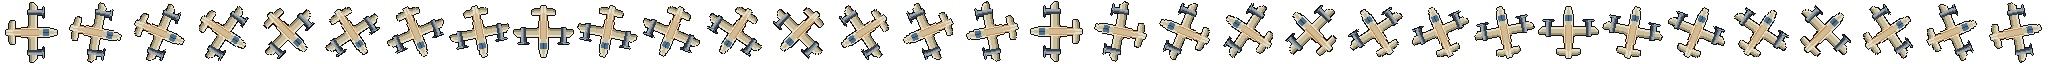
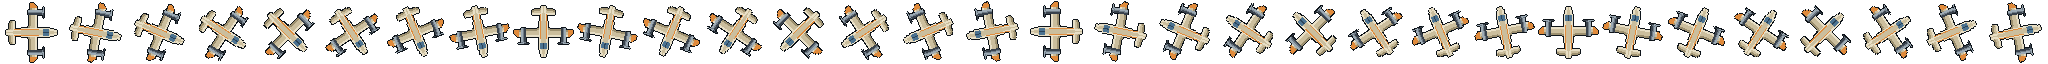
Checkpoint: PixelLab Trailhopper master with hull-clipped cutaway carve
Held from the previous session per the stop request; committed as a checkpoint
before the curated asset-pack integration begins. May be superseded by a hero
built from the new library's flight vocabulary.

diff --git a/tools/artgen/carve.py b/tools/artgen/carve.py
@@ -1,0 +1,118 @@
+"""Carves the cutaway cabin into an approved aircraft master.
+
+PixelLab provides the personality; this provides the interior the game needs:
+an open cabin band and hold with exact seat/cargo anchors, cut into the sprite
+deterministically. Coordinates are hand-picked per master from a grid overlay —
+they are part of the approved design, not guesswork.
+"""
+
+from __future__ import annotations
+
+import json
+import sys
+from pathlib import Path
+
+import numpy as np
+from PIL import Image
+
+sys.path.insert(0, str(Path(__file__).resolve().parent.parent))
+from pixelart.palette import rgb                                  # noqa: E402
+
+## Per-master carve plans. Slots are [x, y] top-left anchors.
+PLANS = {
+    "trailhopper_4": {
+        "source": ".art_candidates/trailhopper_master.png",
+        "cabin": {"x0": 36, "y0": 38, "x1": 93, "y1": 52},
+        "hold": {"x0": 40, "y0": 54, "x1": 77, "y1": 61},
+        "seat_slot": 8,
+        "seats": [[38, 41], [47, 41], [56, 41], [65, 41], [74, 41], [83, 41]],
+        "cargo_slot": 7,
+        "cargo": [[42, 54], [51, 54], [60, 54], [69, 54]],
+    },
+}
+
+
+def _shift(mask: np.ndarray, dy: int, dx: int) -> np.ndarray:
+    out = np.roll(np.roll(mask, dy, axis=0), dx, axis=1)
+    if dy > 0: out[:dy, :] = False
+    elif dy < 0: out[dy:, :] = False
+    if dx > 0: out[:, :dx] = False
+    elif dx < 0: out[:, dx:] = False
+    return out
+
+
+def _erode(mask: np.ndarray, steps: int = 1) -> np.ndarray:
+    out = mask
+    for _ in range(steps):
+        n = out.copy()
+        for dy, dx in ((-1, 0), (1, 0), (0, -1), (0, 1)):
+            n &= _shift(out, dy, dx)
+        out = n
+    return out
+
+
+def _dilate(mask: np.ndarray) -> np.ndarray:
+    out = mask.copy()
+    for dy, dx in ((-1, 0), (1, 0), (0, -1), (0, 1)):
+        out |= _shift(mask, dy, dx)
+    return out
+
+
+def _band(data: np.ndarray, hull: np.ndarray, x0: int, y0: int, x1: int, y1: int,
+          fill: str, floor: str) -> None:
+    """An open interior clipped to the airframe.
+
+    The band only replaces pixels inside the (slightly eroded) hull, so the
+    cutaway follows the fuselage curve instead of hanging off it as a pasted
+    rectangle — which was exactly the review panel's complaint.
+    """
+    rect = np.zeros(hull.shape, dtype=bool)
+    rect[y0:y1 + 1, x0:x1 + 1] = True
+    inside = rect & _erode(hull, 2)
+    data[inside, :3] = rgb(fill)
+    floor_rect = np.zeros_like(rect)
+    floor_rect[y1 - 1:y1 + 1, x0:x1 + 1] = True
+    data[floor_rect & inside, :3] = rgb(floor)
+    ceiling = np.zeros_like(rect)
+    ceiling[y0, x0:x1 + 1] = True
+    data[ceiling & inside, :3] = rgb("ice_light")
+    frame = _dilate(inside) & ~inside & hull
+    data[frame, :3] = rgb("outline")
+
+
+def carve(family: str, out_dir: Path) -> Path:
+    plan = PLANS[family]
+    image = Image.open(plan["source"]).convert("RGBA")
+    data = np.array(image)
+    hull = data[:, :, 3] > 128
+
+    cabin = plan["cabin"]
+    _band(data, hull, cabin["x0"], cabin["y0"], cabin["x1"], cabin["y1"], "white", "ice")
+    hold = plan["hold"]
+    _band(data, hull, hold["x0"], hold["y0"], hold["x1"], hold["y1"], "ice_light", "ice")
+
+    out = Image.fromarray(data, "RGBA")
+    target = out_dir / f"{family}_side.png"
+    target.parent.mkdir(parents=True, exist_ok=True)
+    out.save(target)
+
+    alpha = data[:, :, 3]
+    rows = np.where(alpha.max(axis=1) > 128)[0]
+    anchors = {
+        "canvas": [image.width, image.height],
+        "baseline": int(rows.max()) if rows.size else image.height - 1,
+        "seat_slot": plan["seat_slot"],
+        "cargo_slot": plan["cargo_slot"],
+        "seats": plan["seats"],
+        "cargo": plan["cargo"],
+        "carved": True,
+    }
+    (out_dir / f"{family}_side.json").write_text(json.dumps(anchors, indent=2) + "\n")
+    return target
+
+
+if __name__ == "__main__":
+    root = Path(__file__).resolve().parent.parent.parent
+    target = carve("trailhopper_4",
+                   root / "assets" / "art" / "production" / "aircraft" / "trailhopper_4")
+    print("carved ->", target.relative_to(root))

diff --git a/tools/pixelart/aircraft.py b/tools/pixelart/aircraft.py
@@ -167,6 +167,7 @@ def _top_wing(canvas: Canvas, spec: AircraftSpec, ctx: dict) -> None:
     chord = max(3, round(spec.wing_chord_m * ppm))
     leading = nose - round(spec.length_m * spec.wing_x_frac * ppm)
     tip_round = max(1, half_span // 8)
+    tip_band = max(2, half_span // 7)
     for dy in range(0, half_span + 1):
         t = dy / max(1, half_span)
         # Taper only, no sweep: at this sprite size a swept leading edge turns
@@ -181,7 +182,9 @@ def _top_wing(canvas: Canvas, spec: AircraftSpec, ctx: dict) -> None:
             tip_chord = max(1, tip_chord - inset)
         x_trail = x_lead - tip_chord
         for x in range(x_trail, x_lead + 1):
-            if x >= x_lead - 1:
+            if half_span - dy <= tip_band:
+                colour = livery["trim"]         # wingtip flash, from the master
+            elif x >= x_lead - 1:
                 colour = livery["light"]        # lit leading edge
             elif x <= x_trail + 1:
                 colour = livery["dark"]         # shadowed trailing edge
@@ -236,14 +239,16 @@ def _top_engines(canvas: Canvas, spec: AircraftSpec, ctx: dict) -> None:
                             _shade(dy, nacelle_half, "metal_light", "metal", "metal_dark"))
         _top_prop(canvas, front + 1, centre, prop_half)
     else:
-        cowl = max(2, round(ctx["length"] * 0.12))
+        # The orange cowl from the side-view master, so top and side read as the
+        # same aircraft at a glance.
+        cowl = max(2, round(ctx["length"] * 0.14))
         half_max = max(2, round(spec.fuselage_width_m * ppm * 0.5))
         for x in range(nose - cowl, nose + 1):
             back = nose - x
             half = max(1, round(half_max * (0.5 + 0.5 * back / cowl)))
             for dy in range(-half, half + 1):
                 canvas.plot(x, axis + dy,
-                            _shade(dy, half, "metal_light", "metal", "metal_dark"))
+                            _shade(dy, half, "accent_orange_light", "accent_orange", "accent_red"))
         _top_prop(canvas, nose + 1, axis, prop_half)
 
 

diff --git a/tools/pixelart/scenery.py b/tools/pixelart/scenery.py
@@ -518,3 +518,17 @@ def cloud(width: int, height: int, seed: int) -> Canvas:
 CLOUDS: list[tuple[str, int, int, int]] = [
     ("cloud_0", 24, 12, 41), ("cloud_1", 36, 16, 42), ("cloud_2", 48, 20, 43),
 ]
+
+
+def seat_small() -> Canvas:
+    """The 8px seat for tight generated cabins."""
+    canvas = Canvas(8, 8)
+    canvas.rect(1, 0, 3, 2, "accent_red")           # headrest
+    canvas.rect(1, 2, 2, 4, "accent_orange")        # backrest
+    canvas.rect(1, 4, 6, 2, "accent_orange")        # cushion
+    canvas.hline(1, 6, 4, "accent_orange_light")
+    canvas.hline(1, 6, 6, "accent_red")
+    canvas.plot(2, 7, "soil")
+    canvas.plot(5, 7, "soil")
+    canvas.outline()
+    return canvas

diff --git a/tools/build_pixel_assets.py b/tools/build_pixel_assets.py
@@ -98,6 +98,7 @@ def build_people_and_cargo() -> int:
     for index, (hair, shirt) in enumerate(scenery.PORTRAITS):
         scenery.portrait(hair, shirt).save(people / f"portrait_{index}.png", f"portrait_{index}")
     scenery.seat_empty().save(ART / "ui" / "seat_empty.png", "seat_empty")
+    scenery.seat_small().save(ART / "ui" / "seat_small.png", "seat_small")
     for name, width, height, seed in scenery.CLOUDS:
         scenery.cloud(width, height, seed).save(ART / "world" / f"{name}.png", name)
     return len(shirts) + 4 + len(scenery.PASSENGER_SHIRTS) + 4 \
